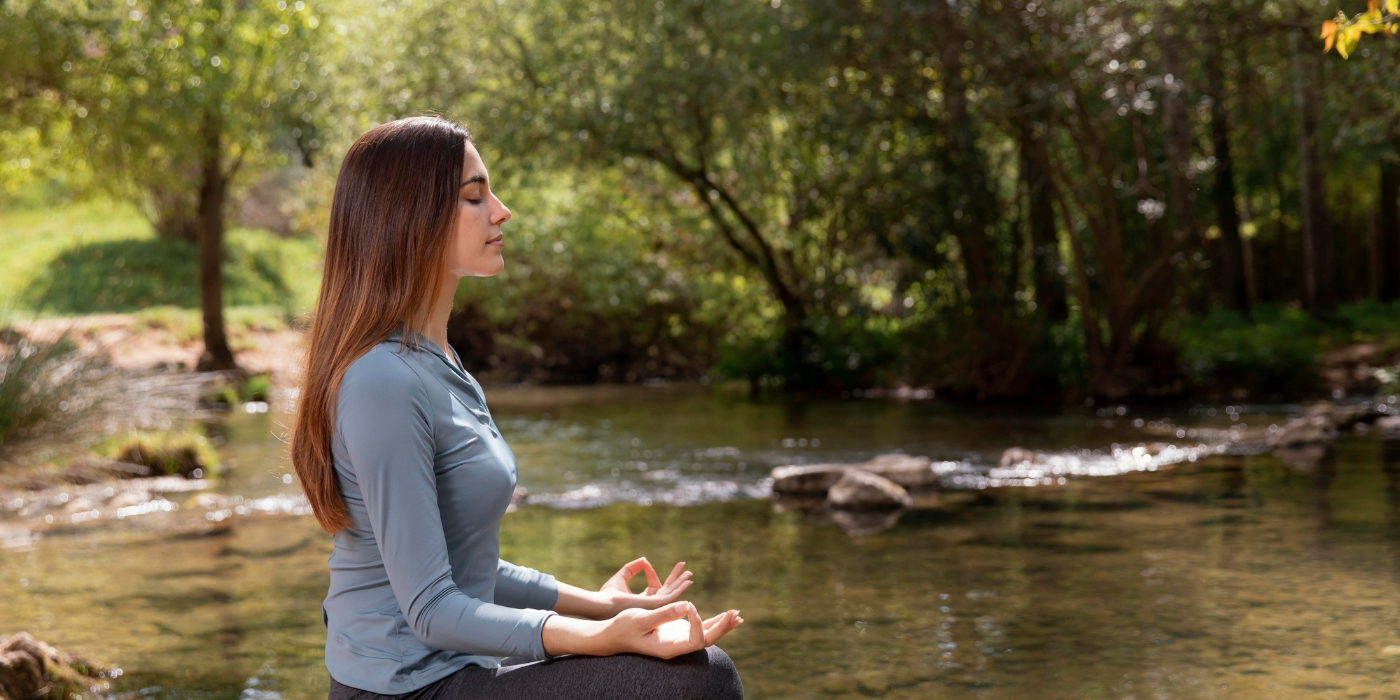
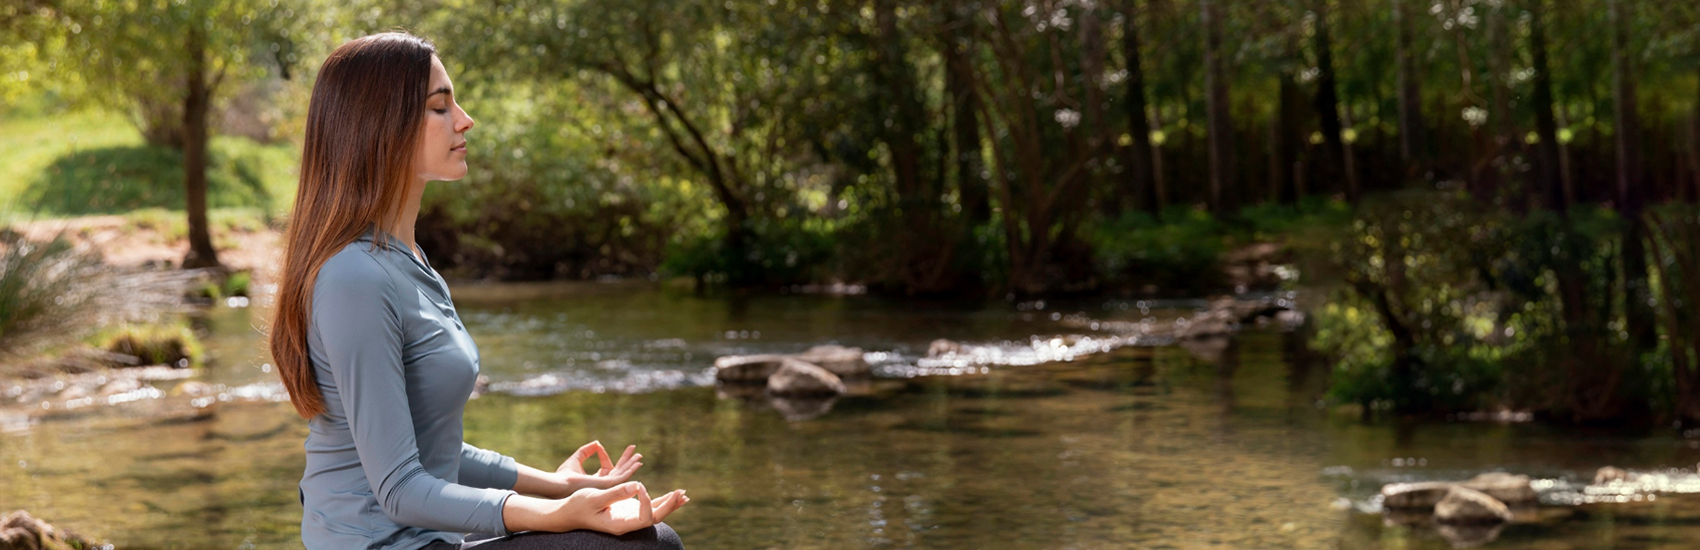
changes

diff --git a/index.php b/index.php
@@ -99,6 +99,9 @@ if(isset($_POST['submit']))
 
     <div class="slider-detail">
         <div id="carouselExampleIndicators" class="carousel slide" data-ride="carousel">
+            <div class="d-none d-md-block carousel-marker">
+                "HEALTH AND WELLNESS"
+            </div>
             <ol class="carousel-indicators">
                 <li data-target="#carouselExampleIndicators" data-slide-to="1" class="active"></li>
                 <li data-target="#carouselExampleIndicators" data-slide-to="2"></li>
@@ -108,46 +111,38 @@ if(isset($_POST['submit']))
 
             <div class="carousel-inner">
                 <div class="carousel-item active">
-                    <img class="d-block w-100" src="assets/images/slider/slider_1.jpg" alt="First slide">
-                    <div class="carousel-cover"></div>
+                    <img class="d-none d-md-block w-100" src="assets/images/slider/slider_1.jpg" alt="First slide">
+                    <img class="d-md-none d-block w-100" src="assets/images/slider/small-screen/slider_1.jpg" alt="First slide">
+                    <!-- <div class="carousel-cover"></div> -->
                     <div class="carousel-caption vdg-cur d-none d-md-block service-list">
-                        <span class="animated bounceInDown text-uppercase service-item">WELLNESS</span>
-                        <span class="animated bounceInDown text-uppercase service-item">PHYSIOTHERAPY</span>
-                        <span class="animated bounceInDown text-uppercase service-item">YOGA</span>
-                        <span class="animated bounceInDown text-uppercase service-item">AYURVEDA</span>
+                        <?php include('hms/include/banner-text.php'); ?>
                     </div>
                 </div>
 
                 <div class="carousel-item">
-                    <img class="d-block w-100" src="assets/images/slider/slider_2.jpg" alt="Second slide">
-                    <div class="carousel-cover"></div>
+                    <img class="d-none d-md-block w-100" src="assets/images/slider/slider_2.jpg" alt="Second slide">
+                    <img class="d-md-none d-block w-100" src="assets/images/slider/small-screen/slider_2.jpg" alt="Second slide">
+                    <!-- <div class="carousel-cover"></div> -->
                     <div class="carousel-caption vdg-cur d-none d-md-block service-list">
-                        <span class="animated bounceInDown text-uppercase service-item">WELLNESS</span>
-                        <span class="animated bounceInDown text-uppercase service-item">PHYSIOTHERAPY</span>
-                        <span class="animated bounceInDown text-uppercase service-item">YOGA</span>
-                        <span class="animated bounceInDown text-uppercase service-item">AYURVEDA</span>
+                        <?php include('hms/include/banner-text.php'); ?>
                     </div>
                 </div>
 
                 <div class="carousel-item">
-                    <img class="d-block w-100" src="assets/images/slider/slider_3.jpg" alt="Third slide">
-                    <div class="carousel-cover"></div>
+                    <img class="d-none d-md-block w-100" src="assets/images/slider/slider_3.jpg" alt="Third slide">
+                    <img class="d-md-none d-block w-100" src="assets/images/slider/small-screen/slider_3.jpg" alt="Third slide">
+                    <!-- <div class="carousel-cover"></div> -->
                     <div class="carousel-caption vdg-cur d-none d-md-block service-list">
-                        <span class="animated bounceInDown text-uppercase service-item">WELLNESS</span>
-                        <span class="animated bounceInDown text-uppercase service-item">PHYSIOTHERAPY</span>
-                        <span class="animated bounceInDown text-uppercase service-item">YOGA</span>
-                        <span class="animated bounceInDown text-uppercase service-item">AYURVEDA</span>
+                        <?php include('hms/include/banner-text.php'); ?>
                     </div>
                 </div>
 
                 <div class="carousel-item">
-                    <img class="d-block w-100" src="assets/images/slider/slider_4.jpg" alt="Third slide">
-                    <div class="carousel-cover"></div>
+                    <img class="d-none d-md-block w-100" src="assets/images/slider/slider_4.jpg" alt="Fourth slide">
+                    <img class="d-md-none d-block w-100" src="assets/images/slider/small-screen/slider_4.jpg" alt="Fourth slide">
+                    <!-- <div class="carousel-cover"></div> -->
                     <div class="carousel-caption vdg-cur d-none d-md-block service-list">
-                        <span class="animated bounceInDown text-uppercase service-item">WELLNESS</span>
-                        <span class="animated bounceInDown text-uppercase service-item">PHYSIOTHERAPY</span>
-                        <span class="animated bounceInDown text-uppercase service-item">YOGA</span>
-                        <span class="animated bounceInDown text-uppercase service-item">AYURVEDA</span>
+                        <?php include('hms/include/banner-text.php'); ?>
                     </div>
                 </div>
             </div>
@@ -223,9 +218,8 @@ if(isset($_POST['submit']))
     <section id="services" class="key-features department">
         <div class="container-fluid">
             <div class="inner-title">
-
-                <h2>Our Key Features</h2>
-                <p>Take a look at some of our key features</p>
+                <h2>Our Services</h2>
+                <p>Our Expertise at a Glance</p>
             </div>
 
             <div class="row">
@@ -320,10 +314,12 @@ if(isset($_POST['submit']))
     <section id="about_us" class="about-us">
         <div class="row no-margin">
             <div class="col-sm-6"> <!-- image-bg no-padding -->
-                <img src="assets/images/aboutUs-03.jpg" class="img-responsive">
+                <img src="assets/images/teams/3.jpeg" class="img-responsive">
             </div>
             <div class="col-sm-6 abut-yoiu">
-                <h3>About Us</h3>
+                <div class="inner-title mb-0">
+                    <h2>About Us</h2>
+                </div>
                 <?php
                     $ret=mysqli_query($con,"select * from tblpage where PageType='aboutus' ");
                     while ($row=mysqli_fetch_array($ret)) {

diff --git a/hms/include/banner-text.php b/hms/include/banner-text.php
@@ -1,0 +1,4 @@
+<!-- <span class="animated bounceInDown text-uppercase service-item">WELLNESS</span>
+<span class="animated bounceInDown text-uppercase service-item">PHYSIOTHERAPY</span>
+<span class="animated bounceInDown text-uppercase service-item">YOGA</span>
+<span class="animated bounceInDown text-uppercase service-item">AYURVEDA</span> -->
